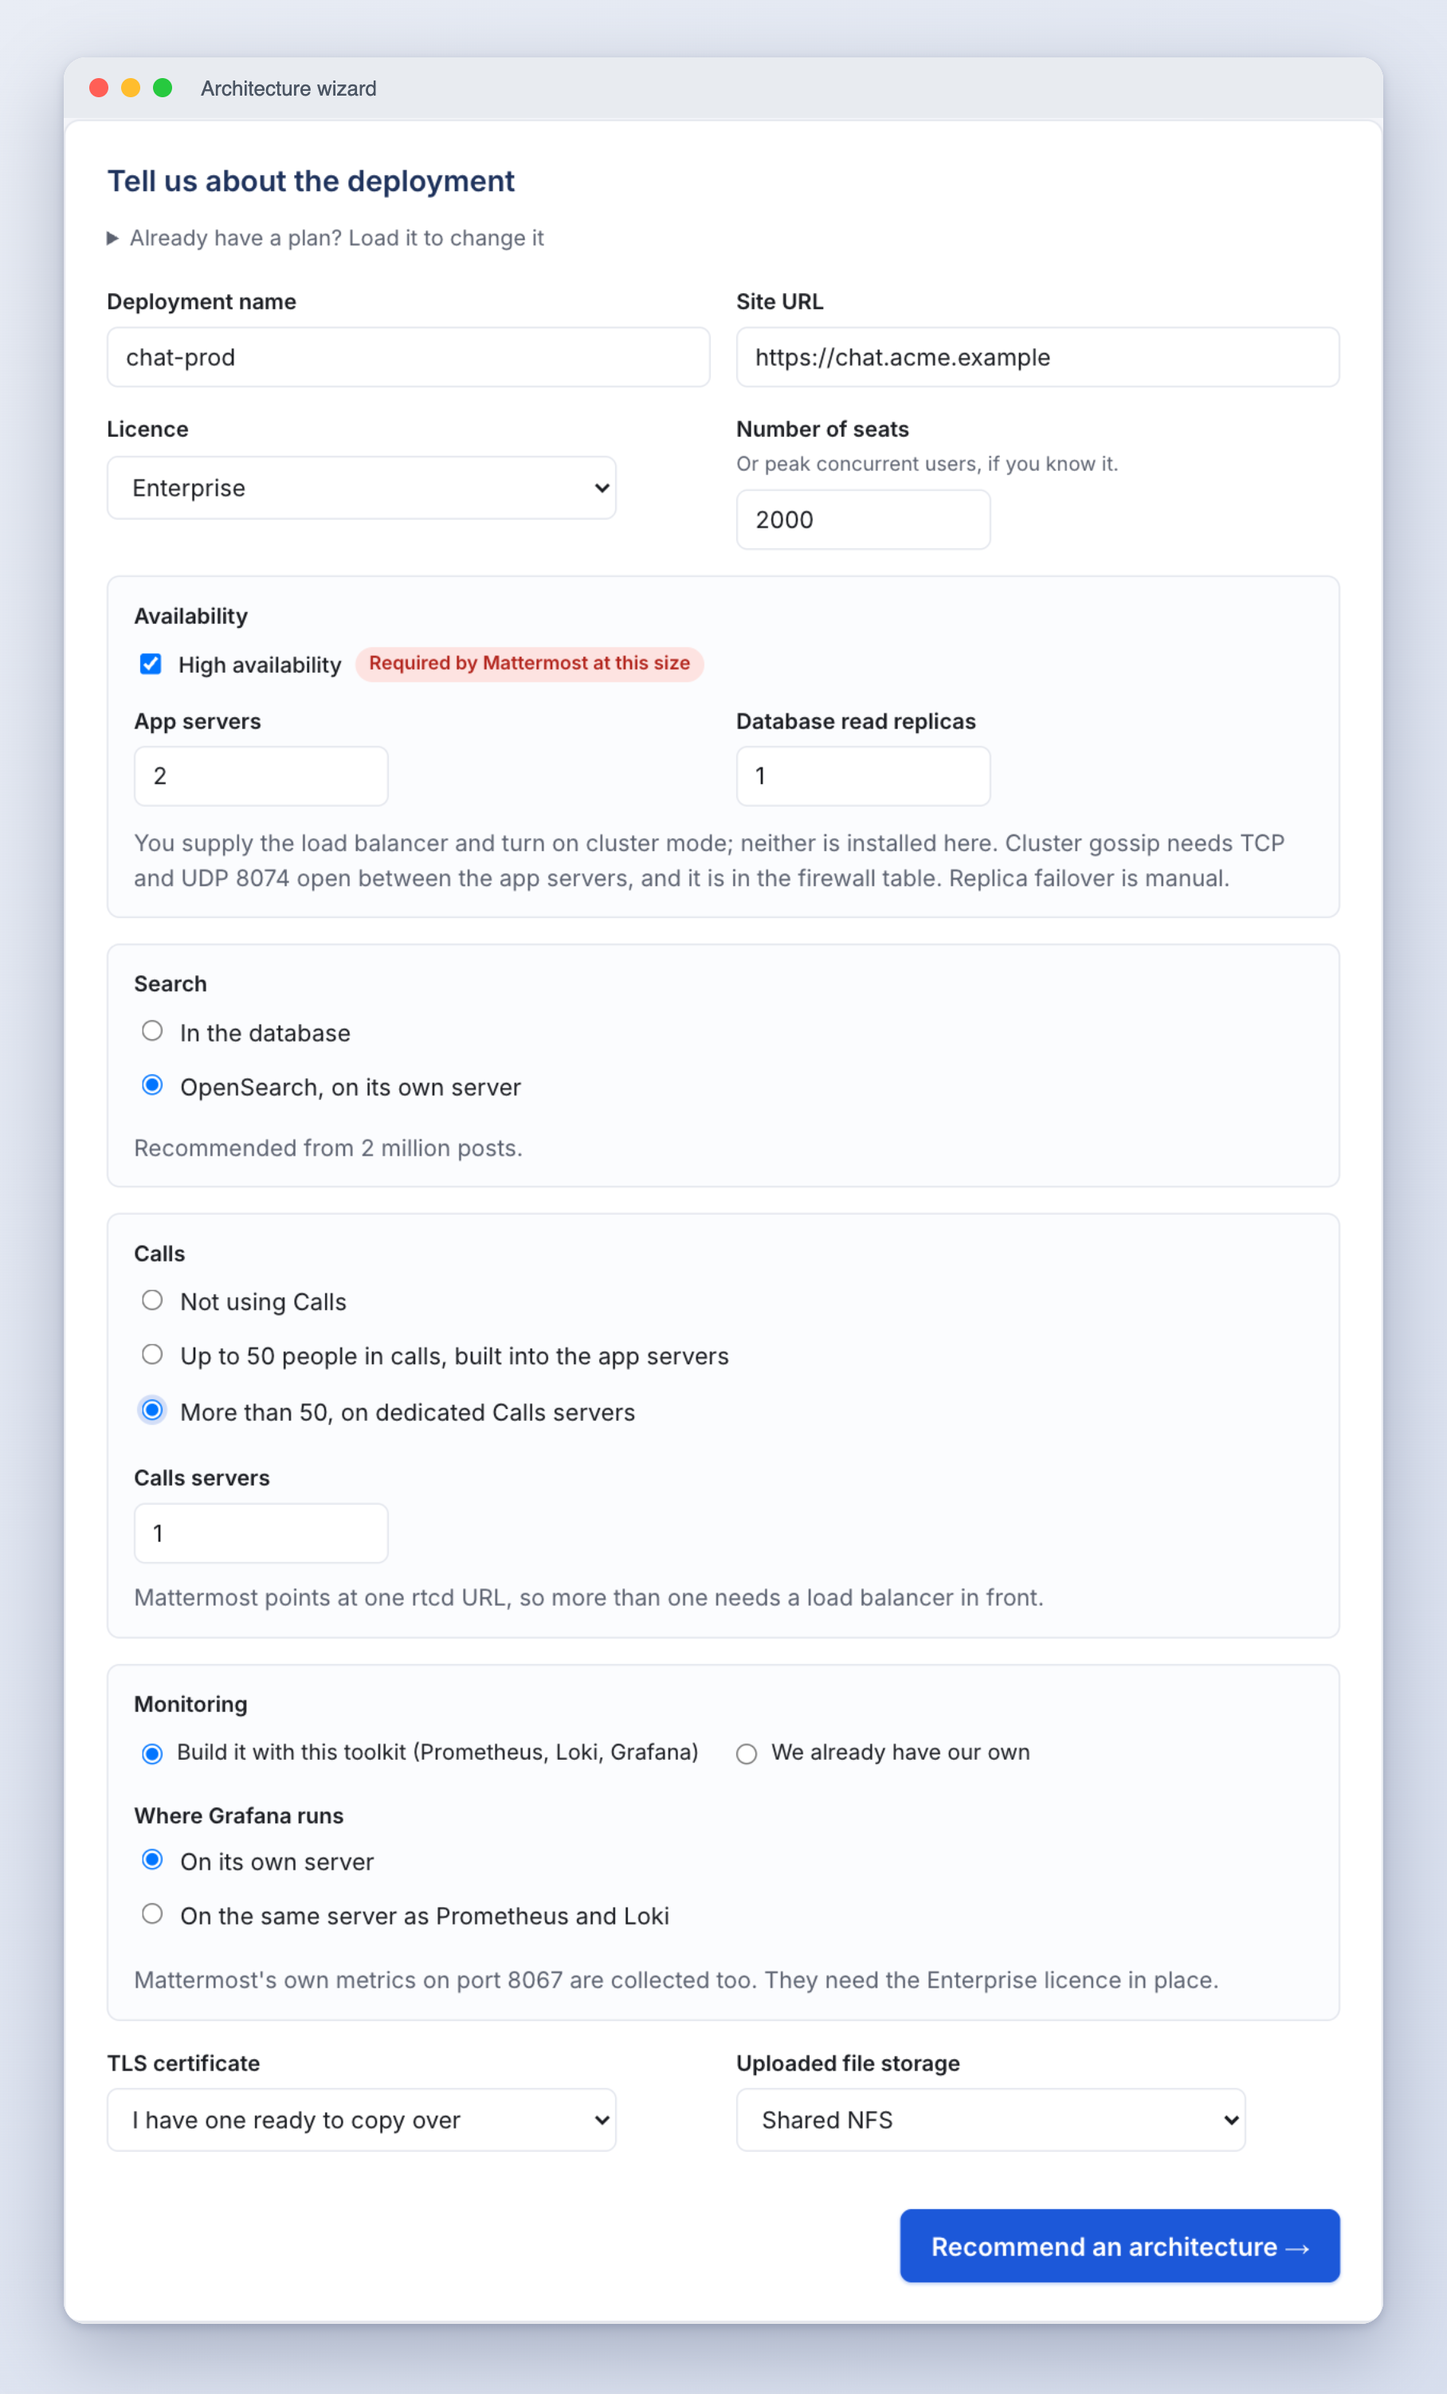
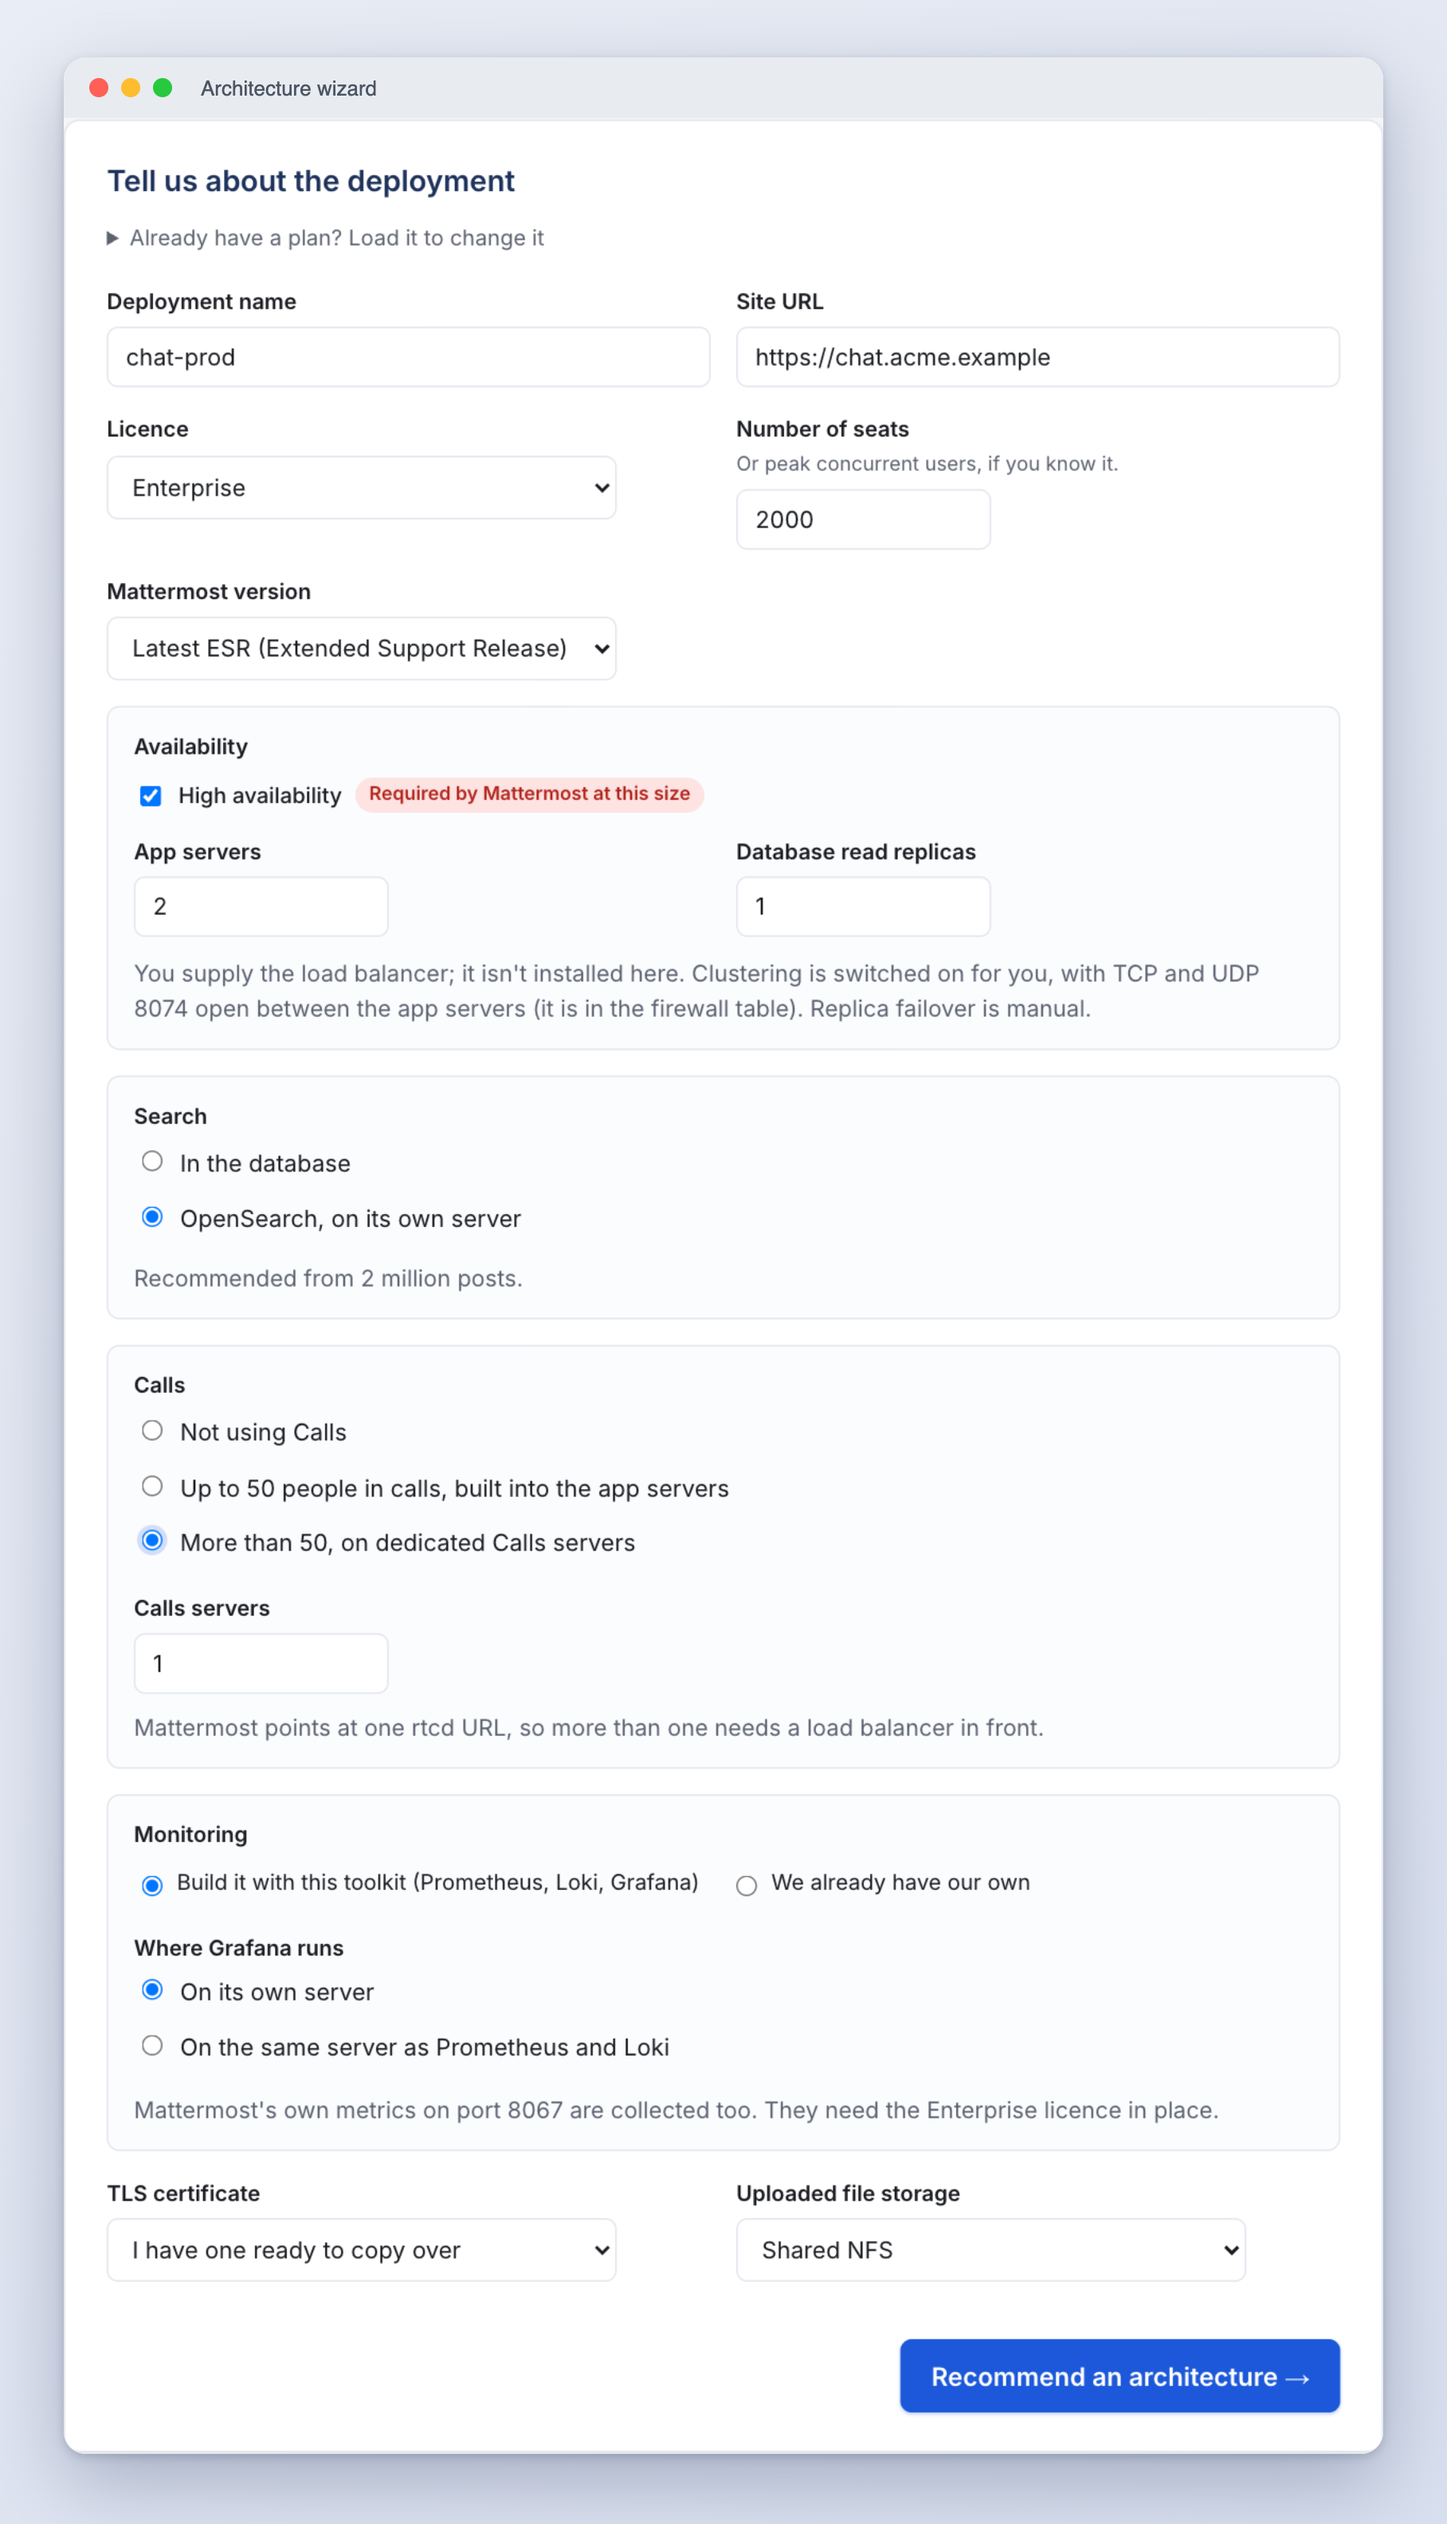
Fix wizard address row alignment and refresh wizard docs for clustering
Bottom-align the name and address inputs so the subtitle under Name no longer
pushes them out of line. Drop the high availability notice from step 2, since
step 1 already says it. Rewrite the README high availability text now that the
plan clusters the app servers itself, fix the firewall screenshot crop (viewport
vs page coordinates), and retake all five wizard screenshots.

diff --git a/wizard/wizard.js b/wizard/wizard.js
@@ -236,11 +236,7 @@
     const band = state.band;
     el("rationale").textContent = band.label + " users, sized from " + band.reference + ", " +
       (nodes.length === 1 ? "one server" : nodes.length + " servers");
-    const ha = haRequired(band, state.s.seats)
-      ? "Mattermost marks high availability as required at this size. The Availability group on the "
-        + "previous page is where you decide."
-      : "";
-    const text = [band.note, ha].filter(Boolean).join(" ");
+    const text = band.note || "";
     el("scale-note").style.display = text ? "" : "none";
     el("scale-note").textContent = text;
     renderEstateSummary();

diff --git a/wizard/wizard.css b/wizard/wizard.css
@@ -272,6 +272,7 @@ details.section > *:not(summary) { margin: 4px 0 16px; }
 .address-row {
   display: grid;
   grid-template-columns: 1fr 1fr;
+  align-items: end;
   gap: 12px;
   padding: 12px 0;
   border-bottom: 1px solid var(--line);

diff --git a/tests/e2e/wizard_screenshots.py b/tests/e2e/wizard_screenshots.py
@@ -36,6 +36,7 @@ with sync_playwright() as p:
     fw = pg.locator("#step-4 details", has_text="Firewall requirements")
     fw.locator("summary").first.click(); pg.wait_for_timeout(400)
     bb = fw.bounding_box()
-    pg.screenshot(path=RAW+"wizard-5-firewall.png", full_page=True, clip={"x":bb["x"],"y":bb["y"],"width":bb["width"],"height":min(bb["height"],820)})
+    sy = pg.evaluate("window.scrollY")  # bounding_box is viewport-relative, clip is page-relative
+    pg.screenshot(path=RAW+"wizard-5-firewall.png", full_page=True, clip={"x":bb["x"],"y":bb["y"]+sy,"width":bb["width"],"height":min(bb["height"],820)})
     open(RAW + 'estate.yml','w').write(pg.input_value('#yaml-out'))
     b.close()

diff --git a/README.md b/README.md
@@ -100,14 +100,17 @@ search, Calls, monitoring, TLS and file storage.
 
 ![Step 1: the deployment](docs/images/wizard-1-deployment.png)
 
-High availability is a checkbox and only offered on Enterprise, because clustering, Enterprise
-search and dedicated Calls servers are all Enterprise features. The badge beside it says whether
-Mattermost marks high availability as required at that size, which it does from 2,000 users up. The
-choice is still yours. Turning it on asks for the number of app servers and read replicas, and
-stops offering local disk for uploads, since more than one app server can't keep files on its own
-disk. Clustering itself is switched on by listing the other app servers in `mattermost_cluster_peers`
-on each one; see [Example: two app servers](#example-two-app-servers). The firewall table says which
-peers get TCP and UDP 8074.
+High availability is a checkbox, offered only on Enterprise, because clustering, Enterprise search
+and dedicated Calls servers are all Enterprise features. The badge beside it shows whether Mattermost
+marks high availability as required at your size (it does from 2,000 users up). The choice is still
+yours.
+
+Turning it on asks for the number of app servers and read replicas, and stops offering local disk
+for uploads, since several app servers can't share one server's disk. The plan then clusters the app
+servers for you. Each one gets the others in `mattermost_cluster_peers`, so Mattermost's cluster mode
+is switched on and TCP and UDP 8074 is opened between them. The firewall table lists those flows. You
+still need the Enterprise licence on every app server and a load balancer in front. See
+[Example: two app servers](#example-two-app-servers).
 
 ### 2. The recommendation
 
